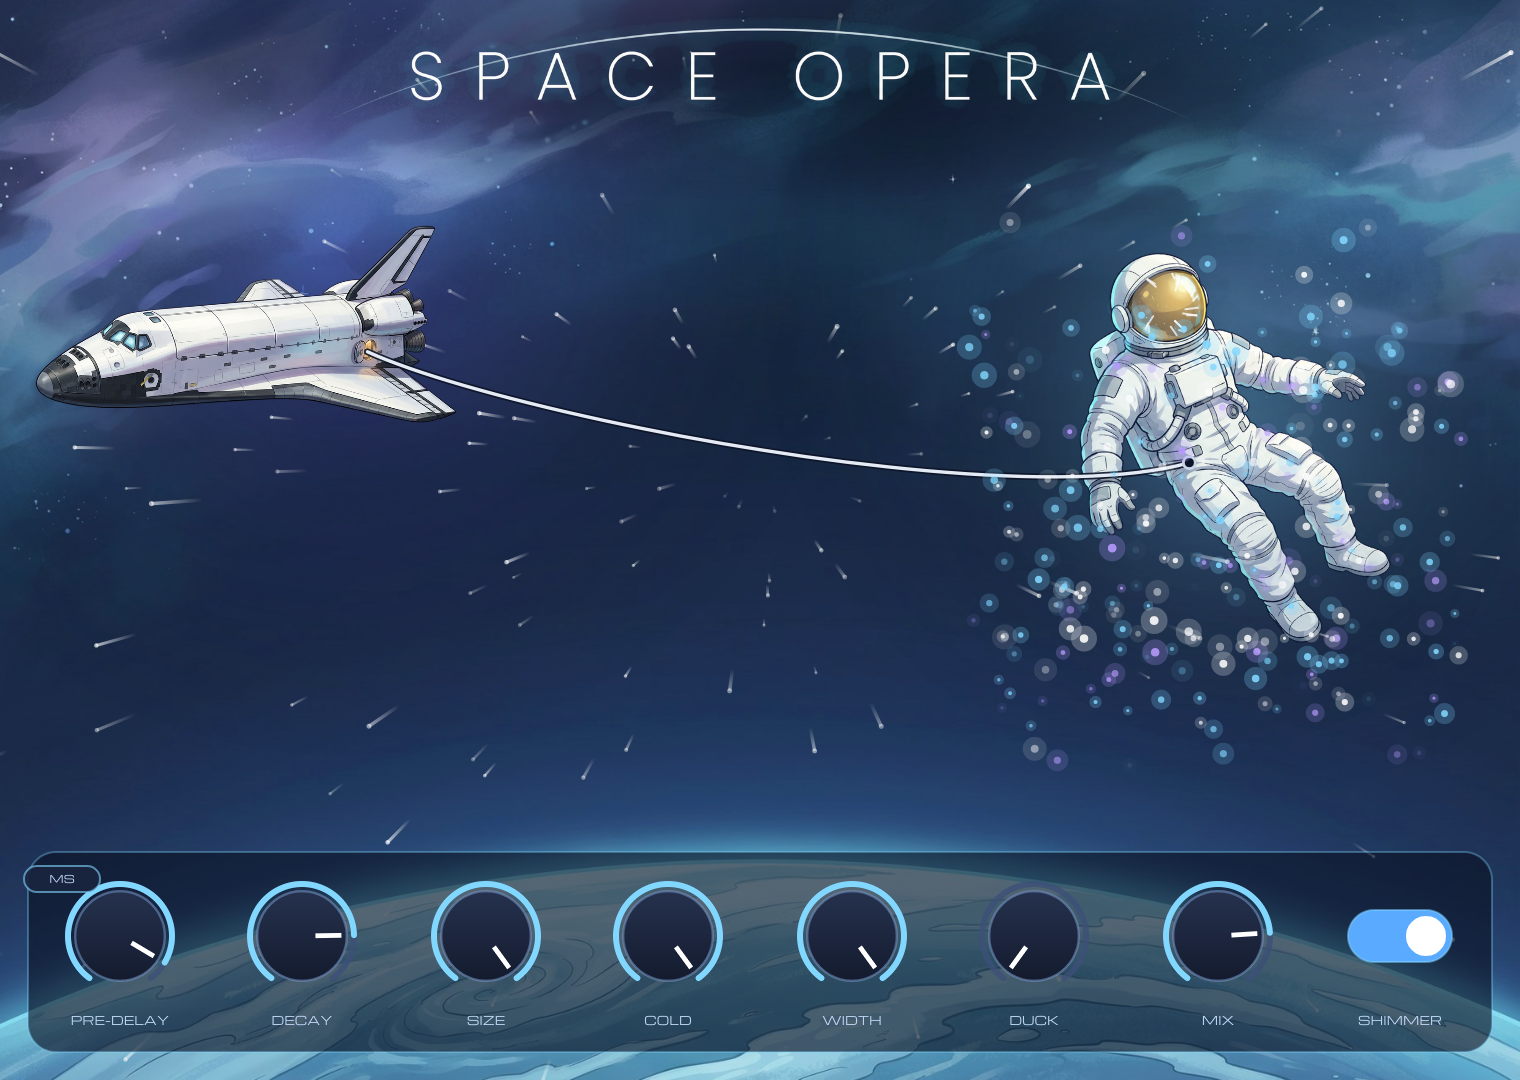
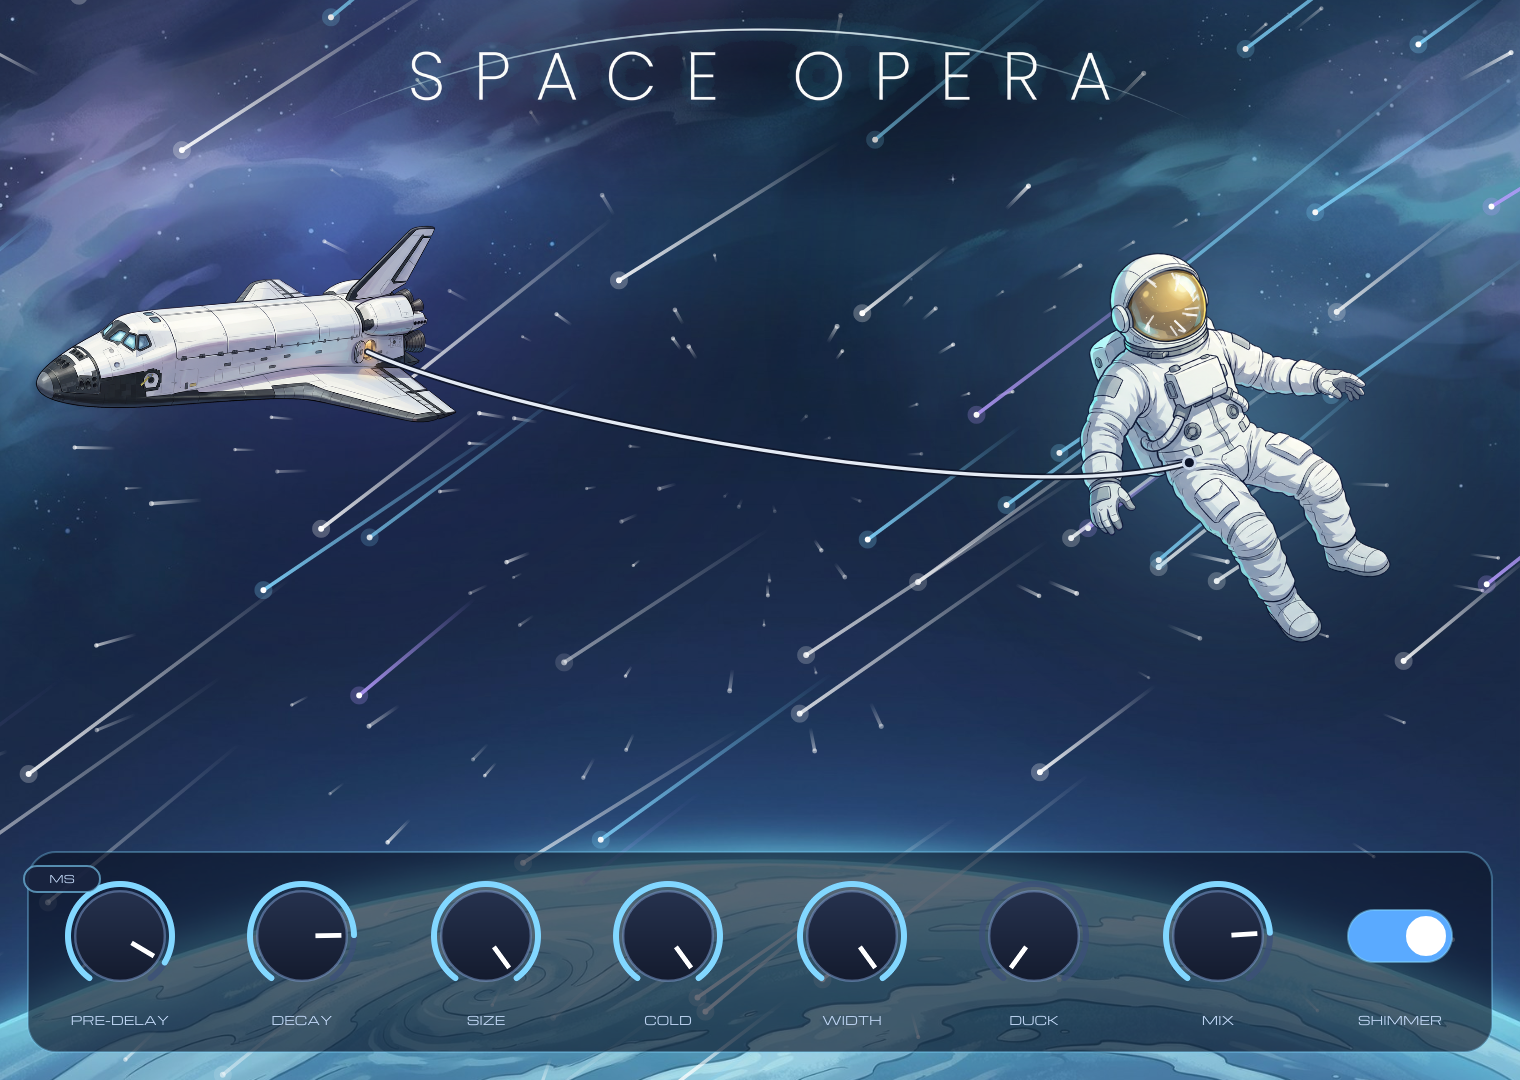
SpaceOpera 1.1: shimmer visual becomes a full-screen meteor shower
Claude-Session: https://claude.ai/code/session_01Dsu9aciw4cCSo7fLzDqZzq

diff --git a/Source/PluginEditor.cpp b/Source/PluginEditor.cpp
@@ -199,25 +199,29 @@ void SpaceOperaEditor::timerCallback()
         s.twinkle += dt * timeScale * 2.0f;
     }
 
-    // shimmer: aurora sparks rising around the astronaut
+    // shimmer: full-screen meteor shower (denser when the reverb tail is loud)
     if (vShimmer > 0.05f && timeScale > 0.05f)
     {
-        const int count = (int) (vShimmer * (1.0f + 4.0f * vWet) + rng.nextFloat());
-        const float ax = lerp (480.0f, 620.0f, vPre), ay = 230.0f;
+        const int count = (int) (vShimmer * (0.35f + 1.6f * vWet) + rng.nextFloat());
         for (int i = 0; i < count; ++i)
         {
-            Spark sp;
-            sp.pos = { ax + (rng.nextFloat() - 0.5f) * 240.0f, ay + (rng.nextFloat() - 0.2f) * 200.0f };
-            sp.vel = { (rng.nextFloat() - 0.5f) * 10.0f, -(14.0f + rng.nextFloat() * 30.0f) };
-            sp.maxLife = sp.life = 1.5f + rng.nextFloat() * 2.0f;
-            sp.size = 1.5f + rng.nextFloat() * 3.0f;
+            Spark m;
+            const float ang = MathConstants<float>::pi * (0.80f + (rng.nextFloat() - 0.5f) * 0.05f); // down-left
+            const float speed = 520.0f + rng.nextFloat() * 480.0f;
+            m.vel = { std::cos (ang) * speed, std::sin (ang) * speed };   // screen y points down
+            // enter from the top edge or the right edge
+            if (rng.nextFloat() < 0.65f) m.pos = { rng.nextFloat() * (W + 260.0f), -20.0f - rng.nextFloat() * 60.0f };
+            else                         m.pos = { W + 20.0f + rng.nextFloat() * 60.0f, rng.nextFloat() * H * 0.55f };
+            m.maxLife = m.life = 1.6f;
+            m.size = 50.0f + rng.nextFloat() * 130.0f;                    // tail length
             const float pick = rng.nextFloat();
-            sp.colour = pick < 0.45f ? ice : pick < 0.8f ? Colours::white : Colour (0xffb79cff);
-            sparks.push_back (sp);
+            m.colour = pick < 0.55f ? Colours::white : pick < 0.85f ? ice : Colour (0xffb79cff);
+            sparks.push_back (m);
         }
     }
     for (auto& sp : sparks) { sp.pos += sp.vel * dt * timeScale; sp.life -= dt * timeScale; }
-    sparks.erase (std::remove_if (sparks.begin(), sparks.end(), [] (const Spark& s) { return s.life <= 0.0f; }), sparks.end());
+    sparks.erase (std::remove_if (sparks.begin(), sparks.end(), [] (const Spark& s)
+                  { return s.life <= 0.0f || s.pos.x < -250.0f || s.pos.y > (float) H + 250.0f; }), sparks.end());
     if (sparks.size() > 400) sparks.erase (sparks.begin(), sparks.begin() + (long) (sparks.size() - 400));
 
     repaint();
@@ -272,6 +276,21 @@ void SpaceOperaEditor::drawScene (Graphics& g)
             g.setColour (Colours::white.withAlpha (a));
             g.fillEllipse (Rectangle<float> (1.0f + 1.6f * s.depth, 1.0f + 1.6f * s.depth).withCentre (p));
         }
+    }
+
+    // 4b. SHIMMER: meteor shower across the whole sky
+    for (const auto& m : sparks)
+    {
+        const float fade = jmin (1.0f, m.life / m.maxLife * 2.0f) * vShimmer;
+        const auto dir = m.vel / jmax (1.0f, m.vel.getDistanceFromOrigin());
+        const auto tail = m.pos - dir * m.size;
+        g.setGradientFill (ColourGradient (m.colour.withAlpha (0.9f * fade), m.pos,
+                                           m.colour.withAlpha (0.0f), tail, false));
+        g.drawLine (Line<float> (tail, m.pos), 1.8f);
+        g.setColour (m.colour.withAlpha (0.25f * fade));
+        g.fillEllipse (Rectangle<float> (9.0f, 9.0f).withCentre (m.pos));
+        g.setColour (Colours::white.withAlpha (fade));
+        g.fillEllipse (Rectangle<float> (3.0f, 3.0f).withCentre (m.pos));
     }
 
     // 5. shuttle (far, upper-left); gets smaller as SIZE grows, parallax with WIDTH
@@ -335,17 +354,6 @@ void SpaceOperaEditor::drawScene (Graphics& g)
             const auto tip  = vc.getPointOnCircumference (vr * (0.95f - len * vCold * 0.6f), a + 0.15f);
             g.drawLine (Line<float> (edge, tip), 1.0f);
         }
-    }
-
-    // 9. SHIMMER: aurora sparks
-    for (const auto& sp : sparks)
-    {
-        const float life = sp.life / sp.maxLife;
-        const float a = std::sin (life * MathConstants<float>::pi) * vShimmer;
-        g.setColour (sp.colour.withAlpha (0.25f * a));
-        g.fillEllipse (Rectangle<float> (sp.size * 3.0f, sp.size * 3.0f).withCentre (sp.pos));
-        g.setColour (sp.colour.withAlpha (0.9f * a));
-        g.fillEllipse (Rectangle<float> (sp.size, sp.size).withCentre (sp.pos));
     }
 
     // 10. freeze: time stops, the world turns to ice

diff --git a/README.md b/README.md
@@ -11,7 +11,7 @@
 | **WIDTH** | 立體寬度 0–150% | 星空往兩側展開 |
 | **DUCK** | 自動讓路（內建 sidechain）：有聲音時 reverb 退開，空檔才湧出 | 聲音進來時太空人被推開 |
 | **MIX** | 乾濕比 | 遠方星雲變濃、跟著尾巴脈動 |
-| **SHIMMER** | 尾巴多一層往上高八度的亮光 | 太空人周圍飄起極光粒子 |
+| **SHIMMER** | 尾巴多一層往上高八度的亮光 | 全屏流星雨（尾巴越大聲越密） |
 
 內建 180 Hz low cut：reverb 只在中高頻展開，808 和 sub 永遠乾淨。
 滑鼠移到旋鈕上，下方文字會顯示目前數值。
@@ -23,8 +23,8 @@
 
 ## 安裝
 到 GitHub **Releases** 下載：
-- Mac：`SpaceOpera-1.0.0-mac.pkg` → 雙擊安裝（AU + VST3）
-- Windows：`SpaceOpera-1.0.0-win-setup.exe`（VST3，Ableton / FL Studio / Cubase）
+- Mac：`SpaceOpera-1.1.0-mac.pkg` → 雙擊安裝（AU + VST3）
+- Windows：`SpaceOpera-1.1.0-win-setup.exe`（VST3，Ableton / FL Studio / Cubase）
 
 第一次開啟若被擋：Mac → 系統設定 › 隱私權與安全性 › 仍要打開；Windows → 其他資訊 › 仍要執行。
 
